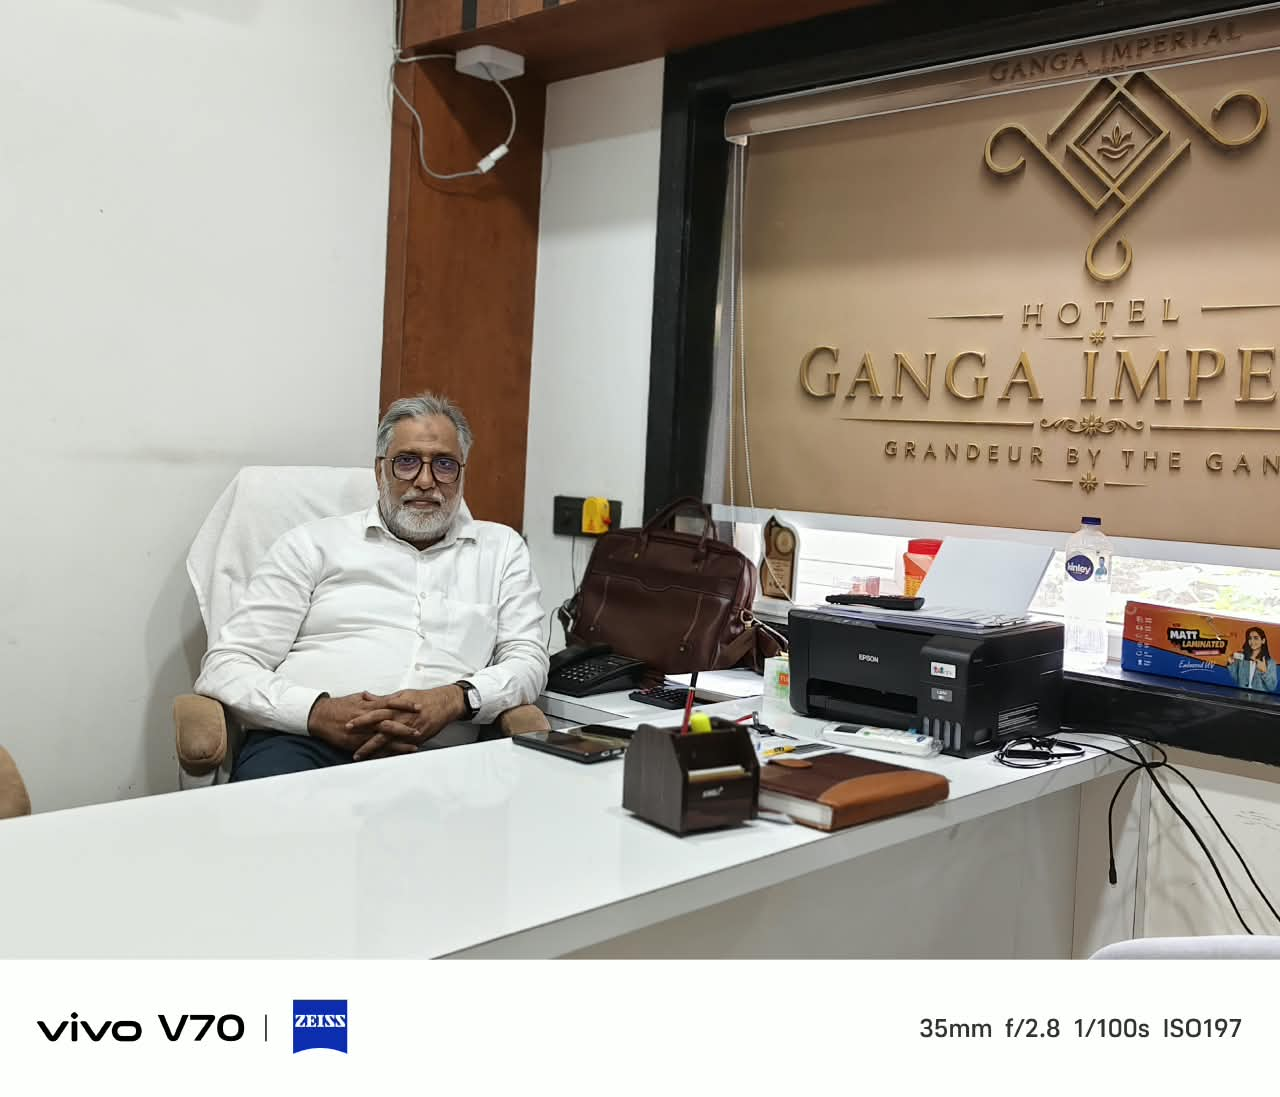
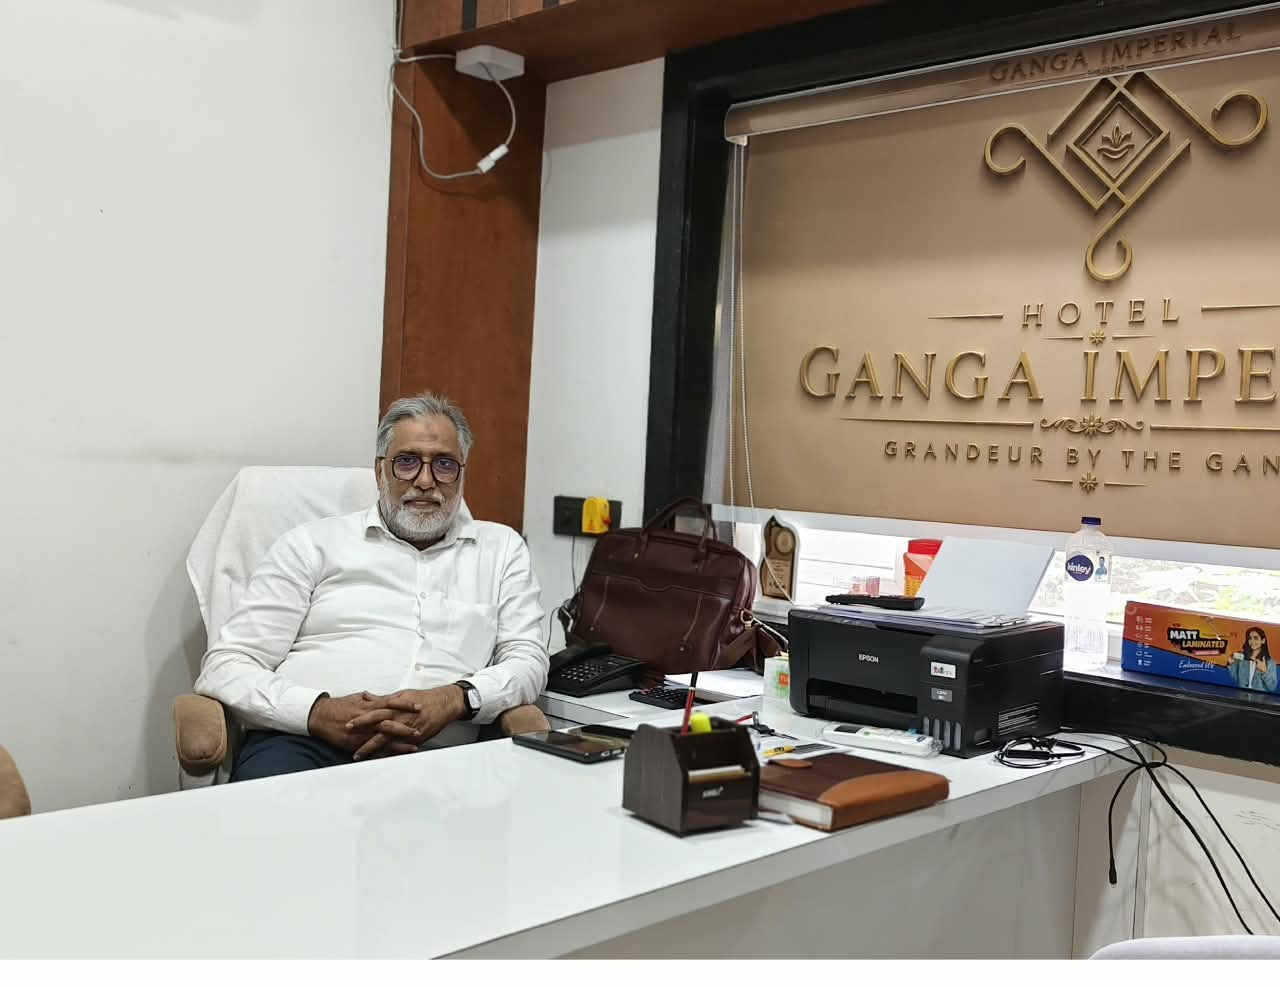
Remove vivo watermark, add founder phone, MD title, Dinesh Ji GM
- Cropped vivo watermark from founder photo
- Founder contact: +91 9616074995
- Bushra Ashfaque: Managing Director
- Dinesh Ji: General Manager, Hotel Ganga Imperial

diff --git a/src/components/Showcase.tsx b/src/components/Showcase.tsx
@@ -287,6 +287,21 @@ const Showcase: React.FC = () => {
             }}>
               Atlas Tour & Travels
             </div>
+            <a href="tel:+919616074995" style={{
+              display: "inline-flex",
+              alignItems: "center",
+              gap: 6,
+              marginTop: 8,
+              fontSize: 14,
+              color: "var(--text2)",
+              textDecoration: "none",
+              fontWeight: 500,
+            }}>
+              <svg width="14" height="14" viewBox="0 0 24 24" fill="none" stroke="#e67e22" strokeWidth="2" strokeLinecap="round" strokeLinejoin="round">
+                <path d="M22 16.92v3a2 2 0 01-2.18 2 19.79 19.79 0 01-8.63-3.07 19.5 19.5 0 01-6-6 19.79 19.79 0 01-3.07-8.67A2 2 0 014.11 2h3a2 2 0 012 1.72c.127.96.361 1.903.7 2.81a2 2 0 01-.45 2.11L8.09 9.91a16 16 0 006 6l1.27-1.27a2 2 0 012.11-.45c.907.339 1.85.573 2.81.7A2 2 0 0122 16.92z" />
+              </svg>
+              +91 9616074995
+            </a>
             <div style={{
               marginTop: 14,
               padding: "12px 16px",
@@ -333,10 +348,42 @@ const Showcase: React.FC = () => {
           </div>
           <div style={{ textAlign: "left" as const }}>
             <div style={{ fontSize: 16, fontWeight: 700, color: "var(--primary)" }}>Bushra Ashfaque</div>
-            <div style={{ fontSize: 12, color: "#e67e22", fontWeight: 600, marginBottom: 2 }}>Travel Manager</div>
+            <div style={{ fontSize: 12, color: "#e67e22", fontWeight: 600, marginBottom: 2 }}>Managing Director</div>
             <a href="tel:+916388360881" style={{ fontSize: 13, color: "var(--text2)", textDecoration: "none" }}>
               +91 6388360881
             </a>
+          </div>
+        </div>
+
+        {/* GM - Hotel Ganga Imperial */}
+        <div style={{
+          marginTop: 12,
+          padding: "18px 22px",
+          background: "var(--card-bg)",
+          borderRadius: 16,
+          boxShadow: "var(--shadow)",
+          display: "flex",
+          alignItems: "center",
+          gap: 14,
+        }}>
+          <div style={{
+            width: 48,
+            height: 48,
+            borderRadius: "50%",
+            background: "linear-gradient(135deg, #1a3a6b, #2a5298)",
+            display: "flex",
+            alignItems: "center",
+            justifyContent: "center",
+            flexShrink: 0,
+          }}>
+            <svg width="22" height="22" viewBox="0 0 24 24" fill="none" stroke="#f39c12" strokeWidth="2" strokeLinecap="round" strokeLinejoin="round">
+              <path d="M20 21v-2a4 4 0 00-4-4H8a4 4 0 00-4 4v2" />
+              <circle cx="12" cy="7" r="4" />
+            </svg>
+          </div>
+          <div style={{ textAlign: "left" as const }}>
+            <div style={{ fontSize: 16, fontWeight: 700, color: "var(--primary)" }}>Dinesh Ji</div>
+            <div style={{ fontSize: 12, color: "#e67e22", fontWeight: 600, marginBottom: 2 }}>General Manager — Hotel Ganga Imperial</div>
           </div>
         </div>
       </div>
